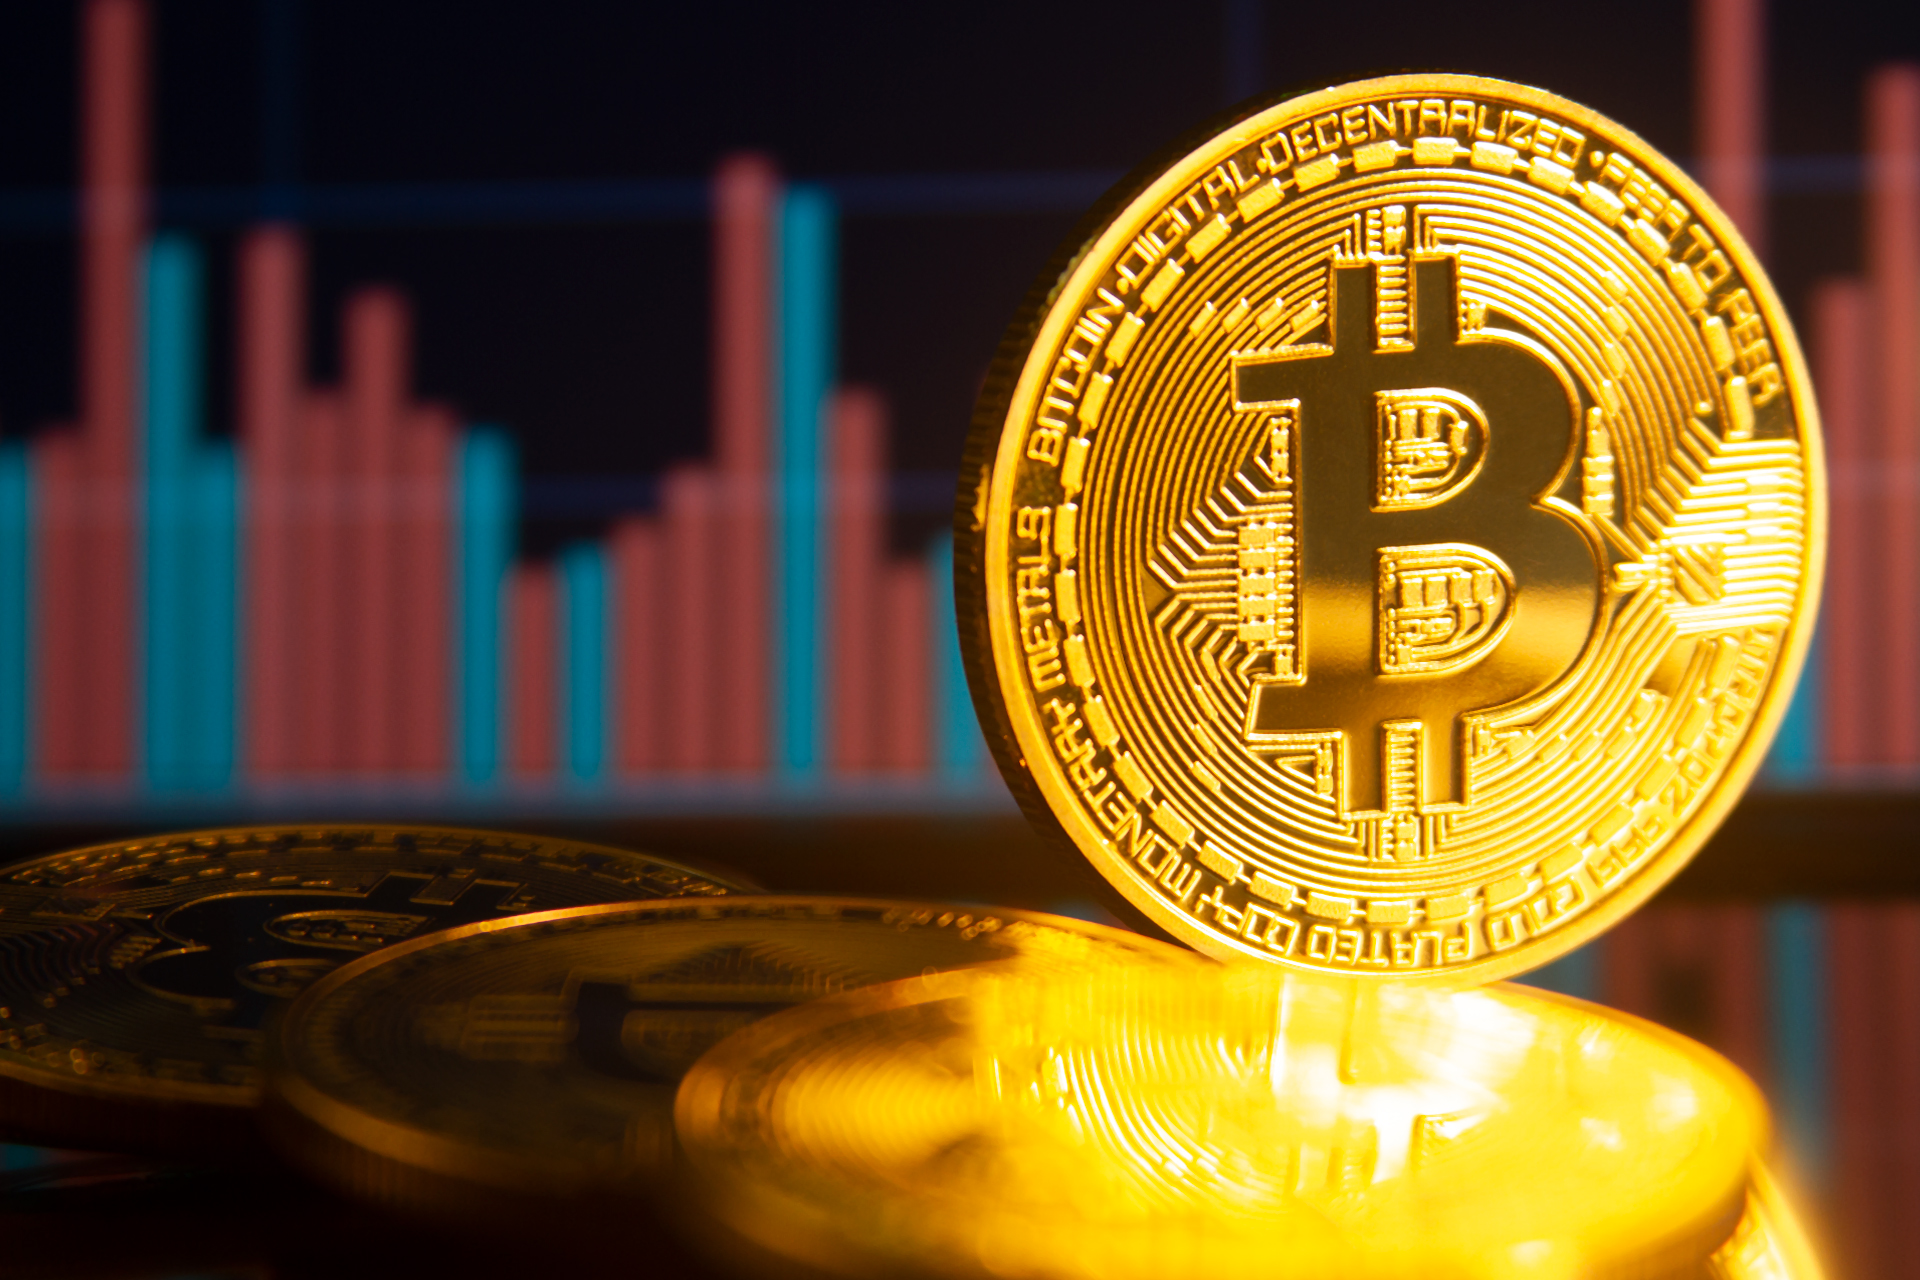
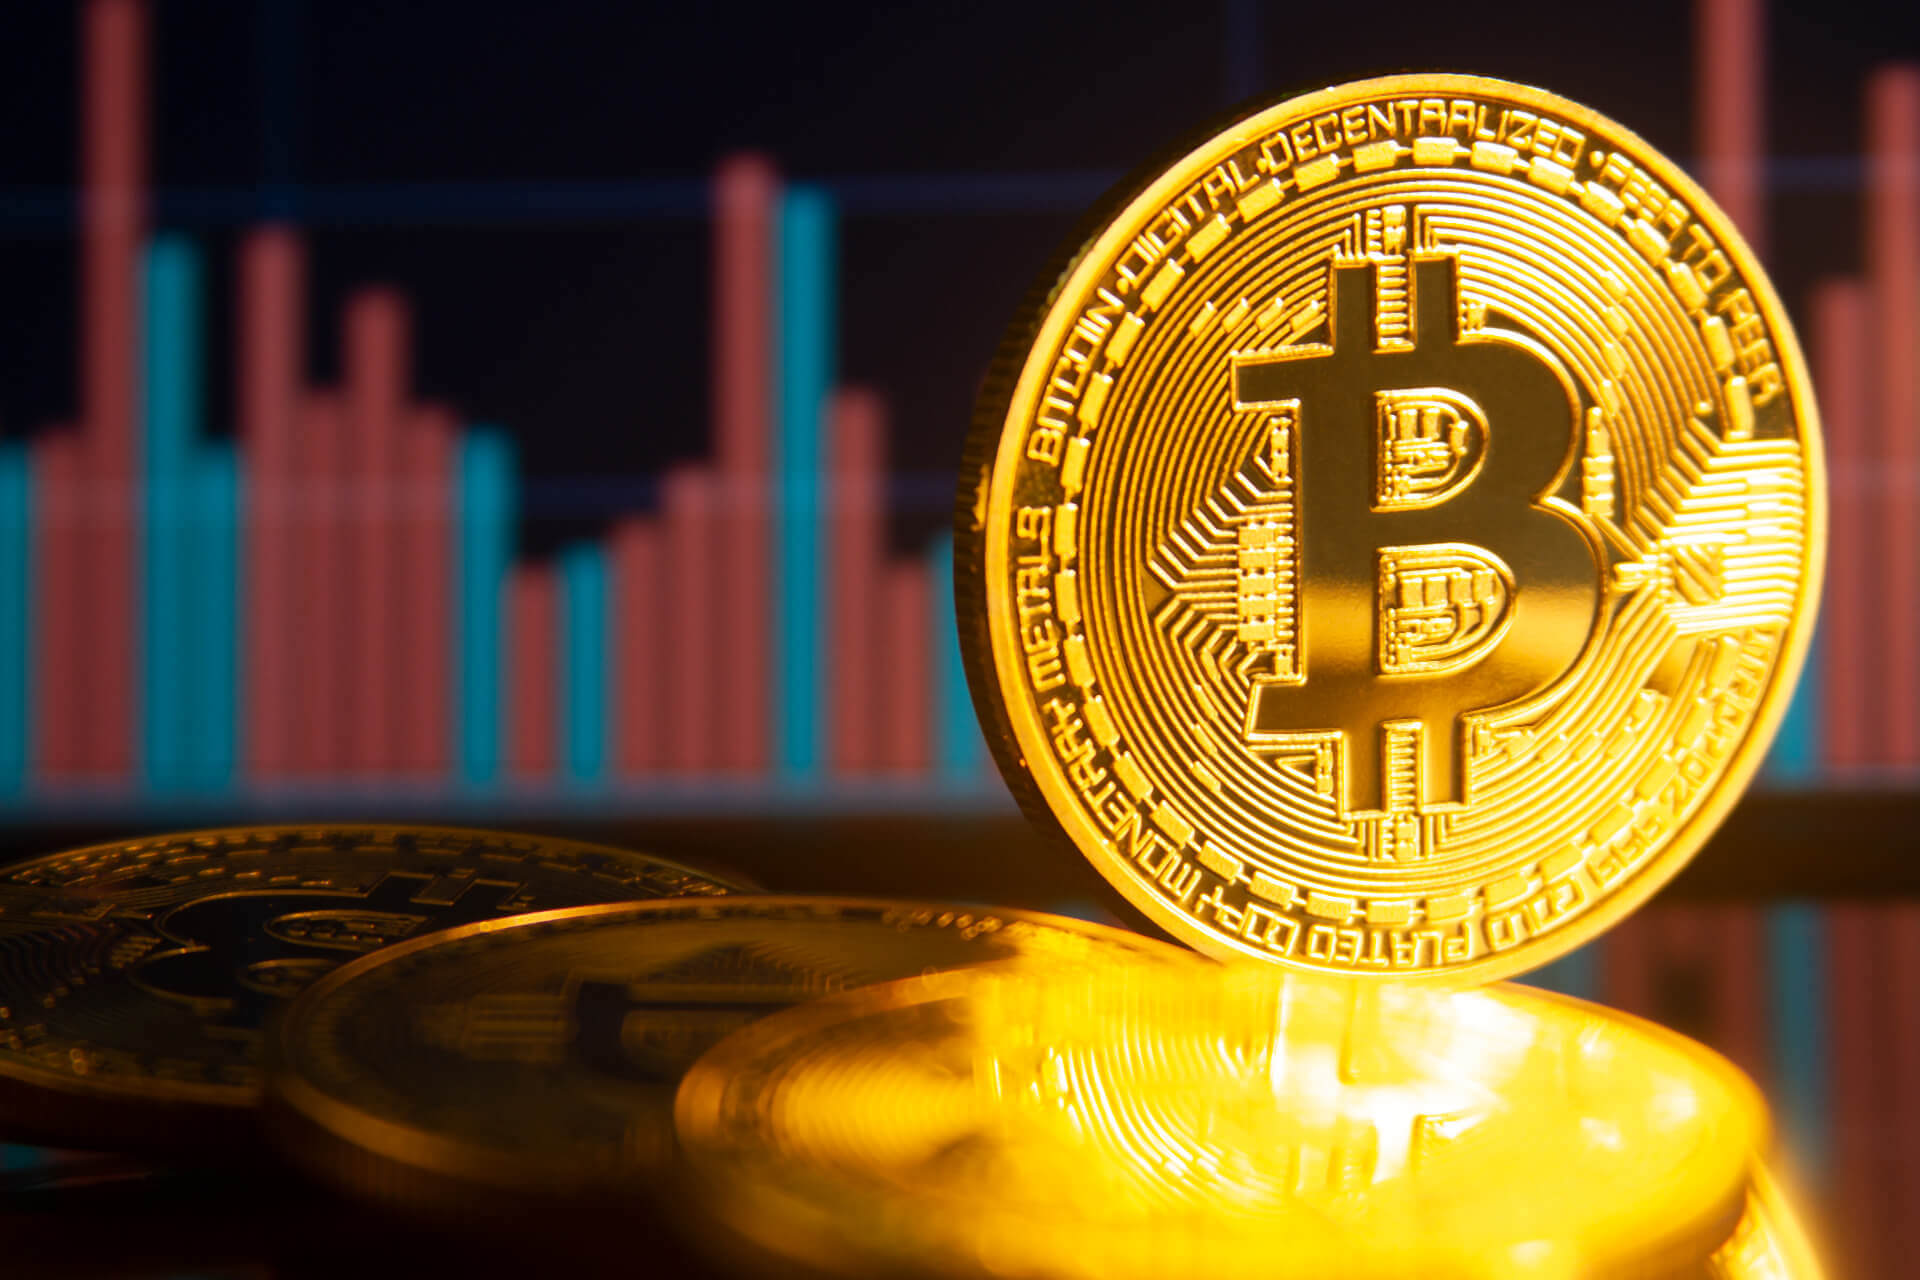
Compress and import website images to README.md

diff --git a/index.html b/index.html
@@ -17,7 +17,7 @@
 <body>
 
     <header>
-        <a href="index.html">
+        <a href="index.html" id="logo-href">
             <h1 class="logo">CRYPTOOLS</h1>
         </a>
 

diff --git a/assets/css/style.css b/assets/css/style.css
@@ -488,11 +488,6 @@ footer > *{
 }
 
 
-@media screen and (max-width: 1440px){
-
-    
-
-}
 
 @media screen and (max-width: 1024px){
    

diff --git a/README.md b/README.md
@@ -90,37 +90,42 @@ Here describes the main features of the website and what the user can expect whe
 
     - This section will allow the user to easily navigate from page to page across all devices without having to revert back to the previous bage via the 'back' button.
 
-    *INCLUDE IMAGE OF NAV BAR HERE*
+        ![Intro](documents/READMEImages/NavBarComp.png)
 
 * The landing page image
     - The landing page includes a photograph with text overlay to improve aesthetic appearance of the page and to not bombard the user with text as soon as they land on the page. 
 
     - This section introduces the user to ______ with an eye catching animation to grab their attention
 
-      *INCLUDE IMAGE OF HERO IMAGE HERE*
+      ![Hero](documents/READMEImages/HeroImageComp.png)
 
-* Why Should You Care Section
+* Intro To Crypto Section
     - This section is the first part of the webpage the user will see. It provides an overview of what crypto is, the main usecases as well as why the technology is important.
     - It introduces the user to the topic and will give them a basic understanding of what the purpose of crypto is and the power it can play
     
-      *INCLUDE IMAGE OF THE SECTION HERE*
+      ![intro](documents/READMEImages/introComp.png)
+      ![intro.2](documents/READMEImages/understandingComp.png)
+      ![intro.3](documents/READMEImages/ethComp.png)
 
 * Centralisation vs. Decentralisation Section
     - This part of the website will help solidify their basic understadning with giving them a brief overview and comparision between the two i.e C vs. D. Getting a strong grasp of this concept is important as this is the whole foundation on what crypto and blockchain is founded on.
 
-    *INCLUDE IMAGE OF THE SECTION HERE*
+      ![CvD](documents/READMEImages/CvDComp.png)
 
 * Proof of Stake vs. Proof of Work Section
     - Getting a grasp of these two concepts is also important as it is only way cryptocurrencies are formed / mined and put into circulation for purchase.
     - Understadning the difference between the two allows the user to be aware of how the price of the coin will fluctuate and gives an insight into potential price action (PA) as halvings and buring occur
 
-    *INCLUDE IMAGE OF THE SECTION HERE*
+    ![PoS](documents/READMEImages/PoSComp.png)
+    ![PosVid](documents/READMEImages/PosVidComp.png)
 
 * Tokenomics Page
     - Tokenomics is the collection of metrics determining the quality and supply of an asset
     - This page will give the user a basic understanding of the complex world of tokenomics and the importance of being able to differentiate between good and bad tokenomics which will allow you to make better investment decisions in the future and help avoid the chance of being involved in a rug pull or scam
 
-    *INCLUDE IMAGE OF THE PAGE HERE*
+    ![token](documents/READMEImages/tokenComp.png)
+    ![token1](documents/READMEImages/token2Comp.png)
+    ![token2](documents/READMEImages/token3Comp.png)
 
 * Where to Buy Page
     - There are many places to buy crypto now and chosing the right place can be a challenge in itself. This section of the webiste will give users a comprehensive guide of how and where to buy cryptos as well as important aspects like security and the advantages and disadvanatges of certain exchanges
